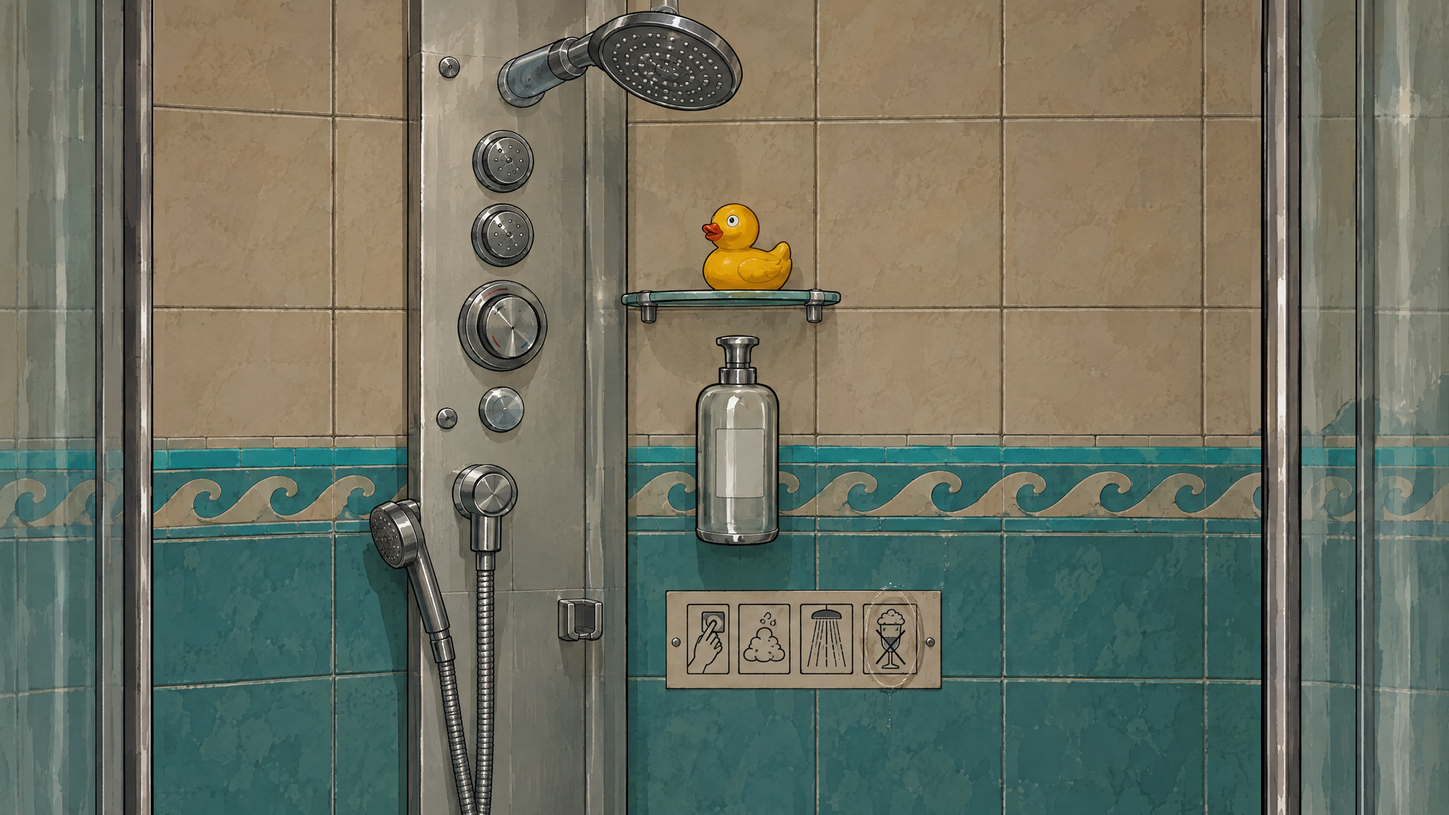
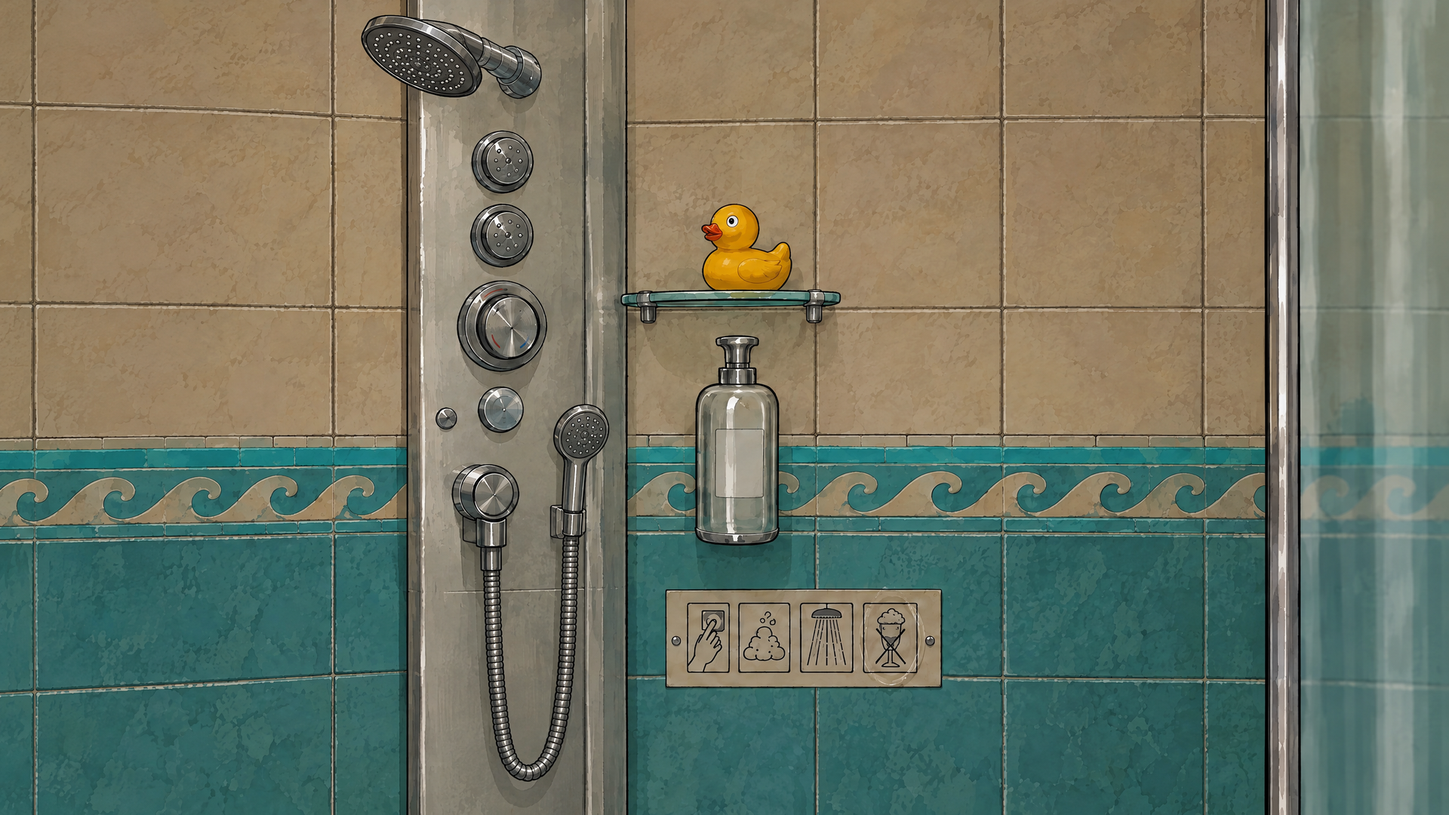
Z01 ред. 3: одна угловая кабина, лейка в держателе; схема «лестница и лифт»
Замечания автора: душевая с двух сторон, ручная лейка в воздухе, непонятно,
куда ведёт винтовая лестница и куда приходит лифт. Z01 — правка кадра ред. 2
(стекло только справа, лейка в держателе, мокрый круг на пиктограмме).
Пояснительная схема docs/assets/stairs_lift_route.png: разрез и цепочка кадров
(W4 → Z12 → контора W6 → W5; лифт W4 → W5), по сдаче Акта IV (DS2).

Claude-Session: https://claude.ai/code/session_01VqJuXijQYxzn3YNdctK2yK

diff --git a/tools/layout/stairs_lift_route.py b/tools/layout/stairs_lift_route.py
@@ -1,0 +1,160 @@
+#!/usr/bin/env python3
+"""Схема «лестница и лифт»: разрез и цепочка кадров (по сдаче Акта IV, DS2, и топологии 08.10.2026).
+
+  python tools/layout/stairs_lift_route.py [--z12 ПУТЬ_К_ZOOM_Z12]
+
+Вывод: docs/assets/stairs_lift_route.png. Кадры берутся из assets/gfx и work/higgsfield/variants;
+Z12 — из принятого assets/gfx/zooms/zoom_z12.png, а пока его нет — из кандидата (ключ --z12).
+"""
+import argparse
+from pathlib import Path
+from PIL import Image, ImageDraw, ImageFont
+
+ROOT = Path(__file__).resolve().parents[2]
+F = '/usr/share/fonts/truetype/dejavu/DejaVuSans.ttf'
+FB = '/usr/share/fonts/truetype/dejavu/DejaVuSans-Bold.ttf'
+R = lambda n: ImageFont.truetype(F, n)
+B = lambda n: ImageFont.truetype(FB, n)
+STAIR = (0, 70, 170)
+LIFT = (190, 110, 0)
+MARK = (220, 20, 20)
+W, H = 1900, 1500
+
+# кадр, подпись, обводки (x0, y0, x1, y1, цвет, номер) в координатах кадра 1920×1080
+STAIRS = [
+    ('assets/gfx/rooms/room_w4.png', '1. Зал W4: дверь «Служебное\nпомещение» в дальней стене',
+     [(600, 250, 800, 560, MARK, '1')]),
+    ('work/higgsfield/variants/room_w4__st_w4_stairs_open.png', '2. Дверь открыта: площадка\nс лампочкой, винтовая вниз',
+     [(600, 250, 800, 560, MARK, '2')]),
+    ('Z12', '3. Низ лестницы (Z12): площадка,\nшесть ступеней вниз, дверь конторы',
+     [(0, 180, 470, 1000, STAIR, ''), (860, 100, 1100, 450, MARK, '3')]),
+    ('assets/gfx/rooms/room_w6.png', '4. Контора W6 изнутри: справа — эта\nже дверь (ступени вверх), слева — в W5',
+     [(1050, 60, 1240, 310, MARK, '3'), (680, 60, 860, 290, MARK, '4')]),
+    ('assets/gfx/rooms/room_w5.png', '5. Приёмный пункт W5: дверь конторы\nза столом; слева — кабина лифта',
+     [(1240, 190, 1440, 500, MARK, '4'), (30, 50, 390, 700, LIFT, 'Л')]),
+]
+LIFTR = [
+    ('assets/gfx/zooms/zoom_z11.png', 'Л1. Зал W4: решётка лифта 1908,\nпост «Вызов / Вниз» (Z11)',
+     [(620, 0, 1270, 1010, LIFT, 'Л')]),
+    ('assets/gfx/rooms/room_w5.png', 'Л2. Шахта выходит в W5: та же\nкабина в скале, пост «Вверхъ»',
+     [(30, 50, 390, 700, LIFT, 'Л')]),
+]
+
+
+def thumb(path, marks, tw, th, z12):
+    p = Path(z12) if path == 'Z12' else ROOT / path
+    im = Image.open(p).convert('RGB').resize((tw, th), Image.LANCZOS)
+    d = ImageDraw.Draw(im)
+    k = tw / 1920
+    for x0, y0, x1, y1, col, n in marks:
+        d.rounded_rectangle((x0 * k, y0 * k, x1 * k, y1 * k), 8, outline=col, width=4)
+        if n:
+            d.ellipse((x0 * k - 2, y0 * k - 2, x0 * k + 30, y0 * k + 30), fill=col)
+            d.text((x0 * k + 14, y0 * k + 14), n, fill='white', font=B(20), anchor='mm')
+    return im
+
+
+def main(argv=None):
+    ap = argparse.ArgumentParser()
+    ap.add_argument('--z12', default=str(ROOT / 'assets/gfx/zooms/zoom_z12.png'))
+    a = ap.parse_args(argv)
+    im = Image.new('RGB', (W, H), 'white')
+    d = ImageDraw.Draw(im)
+    d.text((30, 15), 'Куда ведёт винтовая лестница и куда приходит лифт', fill='black', font=B(30))
+    d.text((30, 58), 'по сдаче Акта IV (DS2) и топологии отеля 08.10.2026: внизу у лестницы одна дверь — '
+           'в контору W6; лифт выходит в приёмный пункт W5; W5 и W6 — соседние, между ними дверь',
+           fill=(90, 90, 90), font=R(17))
+
+    # --- разрез (вид сбоку) ---
+    d.text((30, 100), 'РАЗРЕЗ (вид сбоку, без масштаба)', fill=(120, 120, 120), font=B(19))
+    rock = (232, 222, 205)
+    d.rectangle((60, 330, 1840, 760), fill=rock)
+    d.text((70, 340), 'скала под отелем', fill=(150, 130, 100), font=R(16))
+    # зал W4
+    d.rectangle((260, 150, 1380, 330), fill=(232, 240, 255), outline='black', width=3)
+    d.text((560, 165), 'W4 зал прекраснодушия (уровень вестибюля)', fill='black', font=B(21))
+    d.text((560, 196), 'в кадре W4: лифт — слева у стены, дверь «Служебное помещение» —\n'
+           'в дальней стене между лифтом и доской почёта', fill='black', font=R(16))
+    # шахта лифта
+    d.rectangle((300, 150, 420, 640), fill=(250, 236, 205), outline=LIFT, width=4)
+    d.rectangle((318, 220, 402, 320), fill=(205, 170, 90), outline=LIFT, width=2)
+    d.text((324, 228), 'кабина', fill='black', font=R(15))
+    for y in range(345, 600, 40):
+        d.line((360, y, 360, y + 22), fill=LIFT, width=4)
+    d.polygon(((345, 605), (375, 605), (360, 630)), fill=LIFT)
+    d.text((432, 360), 'шахта лифта 1908\n(Лапидус едет в тележке,\nкак груз)', fill=LIFT, font=B(16))
+    # лестничная клетка
+    d.rectangle((1380, 150, 1560, 560), fill=(225, 233, 245), outline=STAIR, width=4)
+    d.line((1470, 175, 1470, 545), fill=STAIR, width=4)
+    for i, y in enumerate(range(180, 540, 30)):
+        x0, x1 = (1395, 1545) if i % 2 == 0 else (1545, 1395)
+        d.line((x0, y, x1, y + 30), fill=STAIR, width=3)
+    d.text((1575, 160), 'дверь «Служебное\nпомещение» → площадка\nс лампочкой →\nвинтовая лестница\nВНИЗ', fill=STAIR, font=B(16))
+    d.rectangle((1372, 245, 1388, 325), fill=MARK)
+    d.ellipse((1352, 222, 1384, 254), fill=MARK)
+    d.text((1368, 238), '1', fill='white', font=B(20), anchor='mm')
+    # низ: W5 — W6 — Z12
+    y0, y1 = 560, 740
+    d.rectangle((260, y0, 700, y1), fill=(220, 240, 238), outline='black', width=3)
+    d.text((440, y0 + 10), 'W5 приёмный\nпункт', fill='black', font=B(19))
+    d.text((440, y0 + 64), 'стол приёма;\nлифт приходит\nсюда (пост\n«Вверхъ»)', fill='black', font=R(15))
+    d.rectangle((780, y0, 1180, y1), fill=(220, 240, 238), outline='black', width=3)
+    d.text((795, y0 + 10), 'W6 контора', fill='black', font=B(19))
+    d.text((795, y0 + 40), 'грот с трубой и маховиком,\nкаменный уступ с журналом', fill='black', font=R(15))
+    d.rectangle((700, 640, 780, 655), fill=MARK)
+    d.ellipse((724, 600, 756, 632), fill=MARK)
+    d.text((740, 616), '4', fill='white', font=B(20), anchor='mm')
+    d.text((690, 665), 'дверь\nW5 ↔ W6', fill='black', font=R(14))
+    # ступени вверх от двери конторы к площадке Z12
+    d.rectangle((1180, 640, 1196, 735), fill=MARK)
+    d.ellipse((1172, 600, 1204, 632), fill=MARK)
+    d.text((1188, 616), '3', fill='white', font=B(20), anchor='mm')
+    for i in range(6):
+        x = 1200 + i * 30
+        d.rectangle((x, 735 - (i + 1) * 28, x + 30, 740), fill=(200, 190, 175), outline=(120, 110, 95))
+    d.rectangle((1380, 560, 1560, 572), fill=(170, 160, 150))
+    d.text((1390, 580), 'площадка Z12\n(низ лестницы)', fill='black', font=B(16))
+    d.text((1210, 745), 'шесть ступеней вниз к двери конторы', fill='black', font=R(14))
+    d.text((1575, 590), 'здесь кончается\nлестница: других\nдверей нет', fill=STAIR, font=R(15))
+    # итог
+    d.text((60, 790), 'Лестница и лифт сходятся внизу не в одной точке: лифт привозит в W5, лестница приводит к двери W6. '
+           'W5 и W6 соединены дверью.', fill='black', font=B(17))
+    d.text((60, 818), 'До доклада Изольды дверь конторы на лестницу заперта (Акт II: стук — тишина); '
+           'после доклада открыты обе двери — путь по лестнице сквозной: W4 → Z12 → W6 → W5.', fill='black', font=R(17))
+
+    # --- цепочки кадров ---
+    tw, th, gap = 350, 197, 22
+    y = 870
+    d.text((30, y), 'ПО ЛЕСТНИЦЕ — ногами (человек — да, тележка — нет)', fill=STAIR, font=B(20))
+    y += 36
+    for i, (p, cap, marks) in enumerate(STAIRS):
+        x = 30 + i * (tw + gap)
+        im.paste(thumb(p, marks, tw, th, a.z12), (x, y))
+        d.multiline_text((x, y + th + 6), cap, fill='black', font=R(15))
+        if i < len(STAIRS) - 1:
+            d.text((x + tw + 2, y + th // 2 - 16), '→', fill=STAIR, font=B(22))
+    y += th + 70
+    d.text((30, y), 'НА ЛИФТЕ — грузовом (Лапидус в тележке)', fill=LIFT, font=B(20))
+    y += 36
+    for i, (p, cap, marks) in enumerate(LIFTR):
+        x = 30 + i * (tw + gap)
+        im.paste(thumb(p, marks, tw, th, a.z12), (x, y))
+        d.multiline_text((x, y + th + 6), cap, fill='black', font=R(15))
+        if i == 0:
+            d.text((x + tw + 2, y + th // 2 - 16), '→', fill=LIFT, font=B(22))
+    d.multiline_text((30 + 2 * (tw + gap) + 20, y + 10),
+                     'Красные рамки с номерами — одна и та же дверь на разных кадрах:\n'
+                     '1–2 — дверь «Служебное помещение» в зале W4;\n'
+                     '3 — дверь конторы: на Z12 снаружи (с площадки), на W6 изнутри (справа, ступени вверх);\n'
+                     '4 — дверь между конторой и приёмным пунктом: на W6 слева, на W5 за столом\n'
+                     '      (табличка «Контора старшаго по водѣ»).\n'
+                     'Рамка «Л» — кабина лифта: наверху в зале W4 (Z11), внизу в W5 слева.\n'
+                     'Боковая дверь в W5 справа — кладовая, никуда не ведёт.',
+                     fill='black', font=R(16), spacing=6)
+    out = ROOT / 'docs' / 'assets' / 'stairs_lift_route.png'
+    im.save(out)
+    print(out)
+
+
+if __name__ == '__main__':
+    main()

diff --git a/work/higgsfield/candidates/zooms_1011/README.md b/work/higgsfield/candidates/zooms_1011/README.md
@@ -6,7 +6,7 @@
 
 | Зум | Выбран (job) | Референс | Что добавлено к участку экрана |
 |---|---|---|---|
-| `zoom_z01` | db46891a | вырезка W1 1600,40–1880,720 (9eefeda1) | ручная лейка выдернута из держателя и висит боком, пустой держатель; под дозатором пластинка с четырьмя пиктограммами, на четвёртой — ровный мокрый круг |
+| `zoom_z01` | ред. 3: 054df1f1 (правка db46891a по вырезке W1) + мокрый круг на пластинке из dc923f09 (вклейка прямоугольника 875,775–1255,915) | вырезка W1 1600,40–1880,720 (9eefeda1) | одна угловая кабина, как на W1: слева кафельная стена санузла, справа край открытой изогнутой створки кабины; ручная лейка в держателе на колонне, шланг висит петлёй; верхняя лейка вывернута вбок на шарнире; под дозатором пластинка с четырьмя пиктограммами, на четвёртой — ровный мокрый круг |
 | `zoom_z04` | 006f01dc + надпись на пластинке кнопки (участок ×4, a05fa575, вклейка по разнице) | вырезка W2 560,640–1920,1080 (b154226d) | на латунной пластинке кнопки — «Влажное наваждение: пуск» (`Z04.pump.look`, генератор — §1.5). Убраны штемпельная подушка и печать (на W2 их нет) — печать появится в руке Изольды (`st_z04_iz_hand`) |
 | `zoom_z05` | 166103e1 (от 6d1df5c6: гостья в брюках) | вырезка W2 1280,300–1490,570 (f6d51c60) + вид из-под юбки W2u (91806e9c) | тот же счётчик под тем же колпаком, что на W2; под циферблатом пустое окошко (число 40 712 — движок); резиновый упор под стеклом; туфли гостьи и тапочки спутника, оба в брюках |
 | `zoom_z06` | 7b677073, красные лампы убраны (bfa89a28, вклейка двух кругов) | вырезка W3 0,120–760,820 (fb47121e) | носка нет; красных ламп нет (решение автора 11.10.2026), блокировку люков сообщает текст |
@@ -16,7 +16,9 @@
 | `zoom_z10` | 1199e4ad (ред. 1, совпадает с W4) | — | — |
 | `zoom_z12` | fbf5cfc2, гамма 0,92 (30,7 → 33 %) | вырезка лестницы из `st_w4_stairs_open` (5e9aad45) + дверь W6 (92ccf9b5) | см. ниже |
 
-**Z12 и топология** (план — `docs/assets/hotel_topology.png`; GDD: Z12 — зум из W4). Из зала W4 дверь «Служебное помещение» ведёт на тесную площадку с лампочкой, оттуда вниз уходит чугунная винтовая лестница с шаром на столбе (`st_w4_stairs_open`). Z12 — её низ: слева последний виток той же лестницы с тем же шаром, площадка из старой плитки отеля, от неё прямо вниз шесть грубых каменных ступеней к арочной дощатой двери конторы в скале. Это та же дверь, что видна изнутри конторы на W6, где за ней каменные ступени уходят вверх. Снаружи петли у двери слева, ручка справа. На двери уведомление под мокрой пломбой, справа на скале инструкция 1908 года (лист — движок).
+**Замечание автора 11.10.2026 к ред. 2 Z01: «душевая и слева и справа от створки двери», «ручная лейка повисла в воздухе».** В ред. 2 (db46891a) стеклянные стенки со стойками стояли по обоим краям кадра — будто кабина со всех сторон, хотя на W1 это одна угловая кабина в углу санузла; ручная лейка висела наискось без опоры. Ред. 3 — правка того же кадра: стекло только справа (открытая створка), слева кафель; лейка сидит в держателе, шланг висит под своим весом. Пробы 6 (5fe4f989 — лейки нет, один шланг) и 7 (503a64b2 — лейка снова на весу) отклонены.
+
+**Z12 и топология** (план — `docs/assets/hotel_topology.png`, разрез и цепочка кадров — `docs/assets/stairs_lift_route.png`; GDD: Z12 — зум из W4). Из зала W4 дверь «Служебное помещение» ведёт на тесную площадку с лампочкой, оттуда вниз уходит чугунная винтовая лестница с шаром на столбе (`st_w4_stairs_open`). Z12 — её низ: слева последний виток той же лестницы с тем же шаром, площадка из старой плитки отеля, от неё прямо вниз шесть грубых каменных ступеней к арочной дощатой двери конторы в скале. Это та же дверь, что видна изнутри конторы на W6, где за ней каменные ступени уходят вверх. Снаружи петли у двери слева, ручка справа. На двери уведомление под мокрой пломбой, справа на скале инструкция 1908 года (лист — движок).
 
 Проверено: надписи побуквенно («Влажное наваждение: пуск», «Для жетоновъ», «Осторожно, окрашено», «НАШЕ», «Наследие», «ЖУРНАЛ», «Красивая декоративная стена. / Элемент дизайна. / За ней ничего нет.»); яркость всех ≥ 30 %.
 

diff --git a/PROJECT_STATUS_HYDROUDAR.md b/PROJECT_STATUS_HYDROUDAR.md
@@ -4,6 +4,7 @@
 
 ## Точка входа для новой сессии
 
+- ★★★ **11.10.2026, ночь — Z01 ред. 3 и схема лестницы/лифта.** Замечания автора: «душевая и слева и справа от створки двери», «ручная лейка повисла в воздухе», «не понимаю, куда ведёт винтовая лестница и как это соотносится с тем местом, куда приезжает лифт». Z01 переделан правкой того же кадра: одна угловая кабина, как на W1 (слева кафель, справа край открытой створки), лейка в держателе, шланг висит петлёй (README кандидатов зумов; строка Z01 на листе `sheet_1011_zooms_v2.png` заменена). Новая пояснительная схема `docs/assets/stairs_lift_route.png` (`tools/layout/stairs_lift_route.py`): разрез и цепочка кадров — лестница W4 → Z12 → дверь конторы W6 → дверь → W5; лифт W4 → W5; решений не вводит (сдача Акта IV, DS2). Архив `art-archive` пересобран.
 - ★★★ **11.10.2026, вечер — решения автора по ред. 2:** ящики стойки — резные филёнки, как на W2 («годится»); красные лампы на барабанах Z06 — убрать (убраны); толпа из-под юбки выше колен — «да»; микрофон, подтянутый к Изольде, — «устраивает». По замечанию «за калиткой — арка» толпа наложена на принятую базу W2u (`tools/assets/chroma_layer.py`), проход напротив калитки, калитка — вторая панель справа, правее арки. Листы `sheet_1011_zooms_v2.png` и `sheet_1011_w2_w3_states_v2.png` ждут общего «да» → перенос в `assets/`.
 - ★★★ **11.10.2026, вечер — ред. 2 по замечаниям автора** («элементы должны выглядеть и стоять так же, как на принятых картинках»: душевая, доска почёта, счётчик под колпаком, носок-мутант, непонятная лестница, руки Изольды в дереве, расположение телефона/микрофона/ламп, толпа великанов, разломанный шкаф). Все зумы перерисованы от увеличенных вырезок принятых экранов (правило — спека §1.2, «Зум — от вырезки принятого экрана»); Z12 — низ той же винтовой лестницы из W4 и та же дверь конторы, что в W6 (README кандидатов). Состояния W2/W2u/W3 перерисованы: Изольда с ладонями на мраморе, настольный микрофон подтянут к ней, толпа в верной перспективе, шкаф и витрина — по вырезкам. Листы на приёмку: `work/higgsfield/sheet_1011_zooms_v2.png` (участок экрана ↔ зум), `work/higgsfield/sheet_1011_w2_w3_states_v2.png`; ред. 1 — `work/higgsfield/rejected_sheets/`, `candidates/zooms_1011/rejected_v1/`. Хвост «вклеить площадку за дверью W6» снят: ступени за дверью на W6 — те же, что в Z12.
 - ★★★ **11.10.2026, позже — остаток пакета 2 на приёмке** (ветка `claude/quirky-volta-3qus7a`, черновой PR #15). Сессия стартовала с ветки, совпадающей с `origin/main` (8268ebb, слияние PR #14); открытых PR не было; хвосты от 05.10 (`intelligent-hypatia`, `gifted-faraday`) не трогались. **Основы зумов** Z01 (переделка: лейка выдернута и висит боком), Z04, Z05, Z06, Z07, Z08, Z09, Z10, Z12 — `work/higgsfield/candidates/zooms_1011/` (README: job, что нарисовано, гэги, три вопроса), лист `work/higgsfield/sheet_1011_zooms.png`. **Состояния W2/W2u/W3** — 17 слоёв: Изольда (две пробы), Изольда с микрофоном, папка, карта, три бланка, один бланк, жалобы, кефир, нижний ящик, лампа кнопки, индикатор, витрина, стена ног, толпа расступилась, калитка, шкаф W3 — `work/higgsfield/candidates/states_1011/` (README: параметры вырезки, вопросы), лист `work/higgsfield/sheet_1011_w2_w3_states.png`. В `assets/` ничего не перенесено. **Дальше:** решения автора по листам → перенос принятого → состояния зумов `st_z01…st_z12` от принятых основ (и `st_z04_*` — с рукой Изольды в масштабе), крупные планы `cu_z04_*`.

diff --git a/docs/BJ3_ASSET_SPEC.md b/docs/BJ3_ASSET_SPEC.md
@@ -71,7 +71,7 @@
 - **Откидная доска** ~80 см, **калитка** под ней открывается на служебную сторону (с гостевой стоит толпа).
 - **Проёмы**: арка служебного коридора и двери зала ≥ 100 см; двери открываются внутрь помещений (прачечная — внутрь W3, контора — внутрь W6), ни одна дверь при открывании не задевает мебель.
 - **Кабина лифта 1908 года** ~90×120 см, под одну тележку; посты: наверху «Вниз»/«Вызов» (Z11), внизу «Вверхъ» (W5).
-- **Топология** — `docs/assets/hotel_topology.png` (граф связей) и **план первого этажа** `docs/assets/ground_floor_plan.png` (расположение: зал — к западу от вестибюля, его парадные двери — в западной стене вестибюля, служебный коридор — вдоль южной стороны зала, прачечная — к югу от коридора; камера W2 — за стойкой у восточного конца, взгляд на запад); оба утверждены автором 08.10.2026, все экраны рисуются в согласии с ними. Промпт генератору описывает расположение по этому плану, а не «где-нибудь в кадре».
+- **Топология** — `docs/assets/hotel_topology.png` (граф связей) и **план первого этажа** `docs/assets/ground_floor_plan.png` (расположение: зал — к западу от вестибюля, его парадные двери — в западной стене вестибюля, служебный коридор — вдоль южной стороны зала, прачечная — к югу от коридора; камера W2 — за стойкой у восточного конца, взгляд на запад); оба утверждены автором 08.10.2026, все экраны рисуются в согласии с ними. Промпт генератору описывает расположение по этому плану, а не «где-нибудь в кадре». Пояснительная схема низа — `docs/assets/stairs_lift_route.png` (`tools/layout/stairs_lift_route.py`, 11.10.2026): разрез и цепочка кадров, куда ведёт винтовая лестница (W4 → Z12 → дверь конторы W6 → W5) и куда приходит лифт (W4 → W5); новых решений не вводит, повторяет сдачу Акта IV (DS2) и топологию.
 - **Приёмка составного кадра** — только после просмотра всего кадра и его четвертей в полный размер (урок 08.10.2026: остатки прежних дверей под вклейкой).
 
 ### 1.5. Типографика — что пишет генератор, что движок (DESIGN_BIBLE §13, решения автора 07.10 и 08.10.2026)
